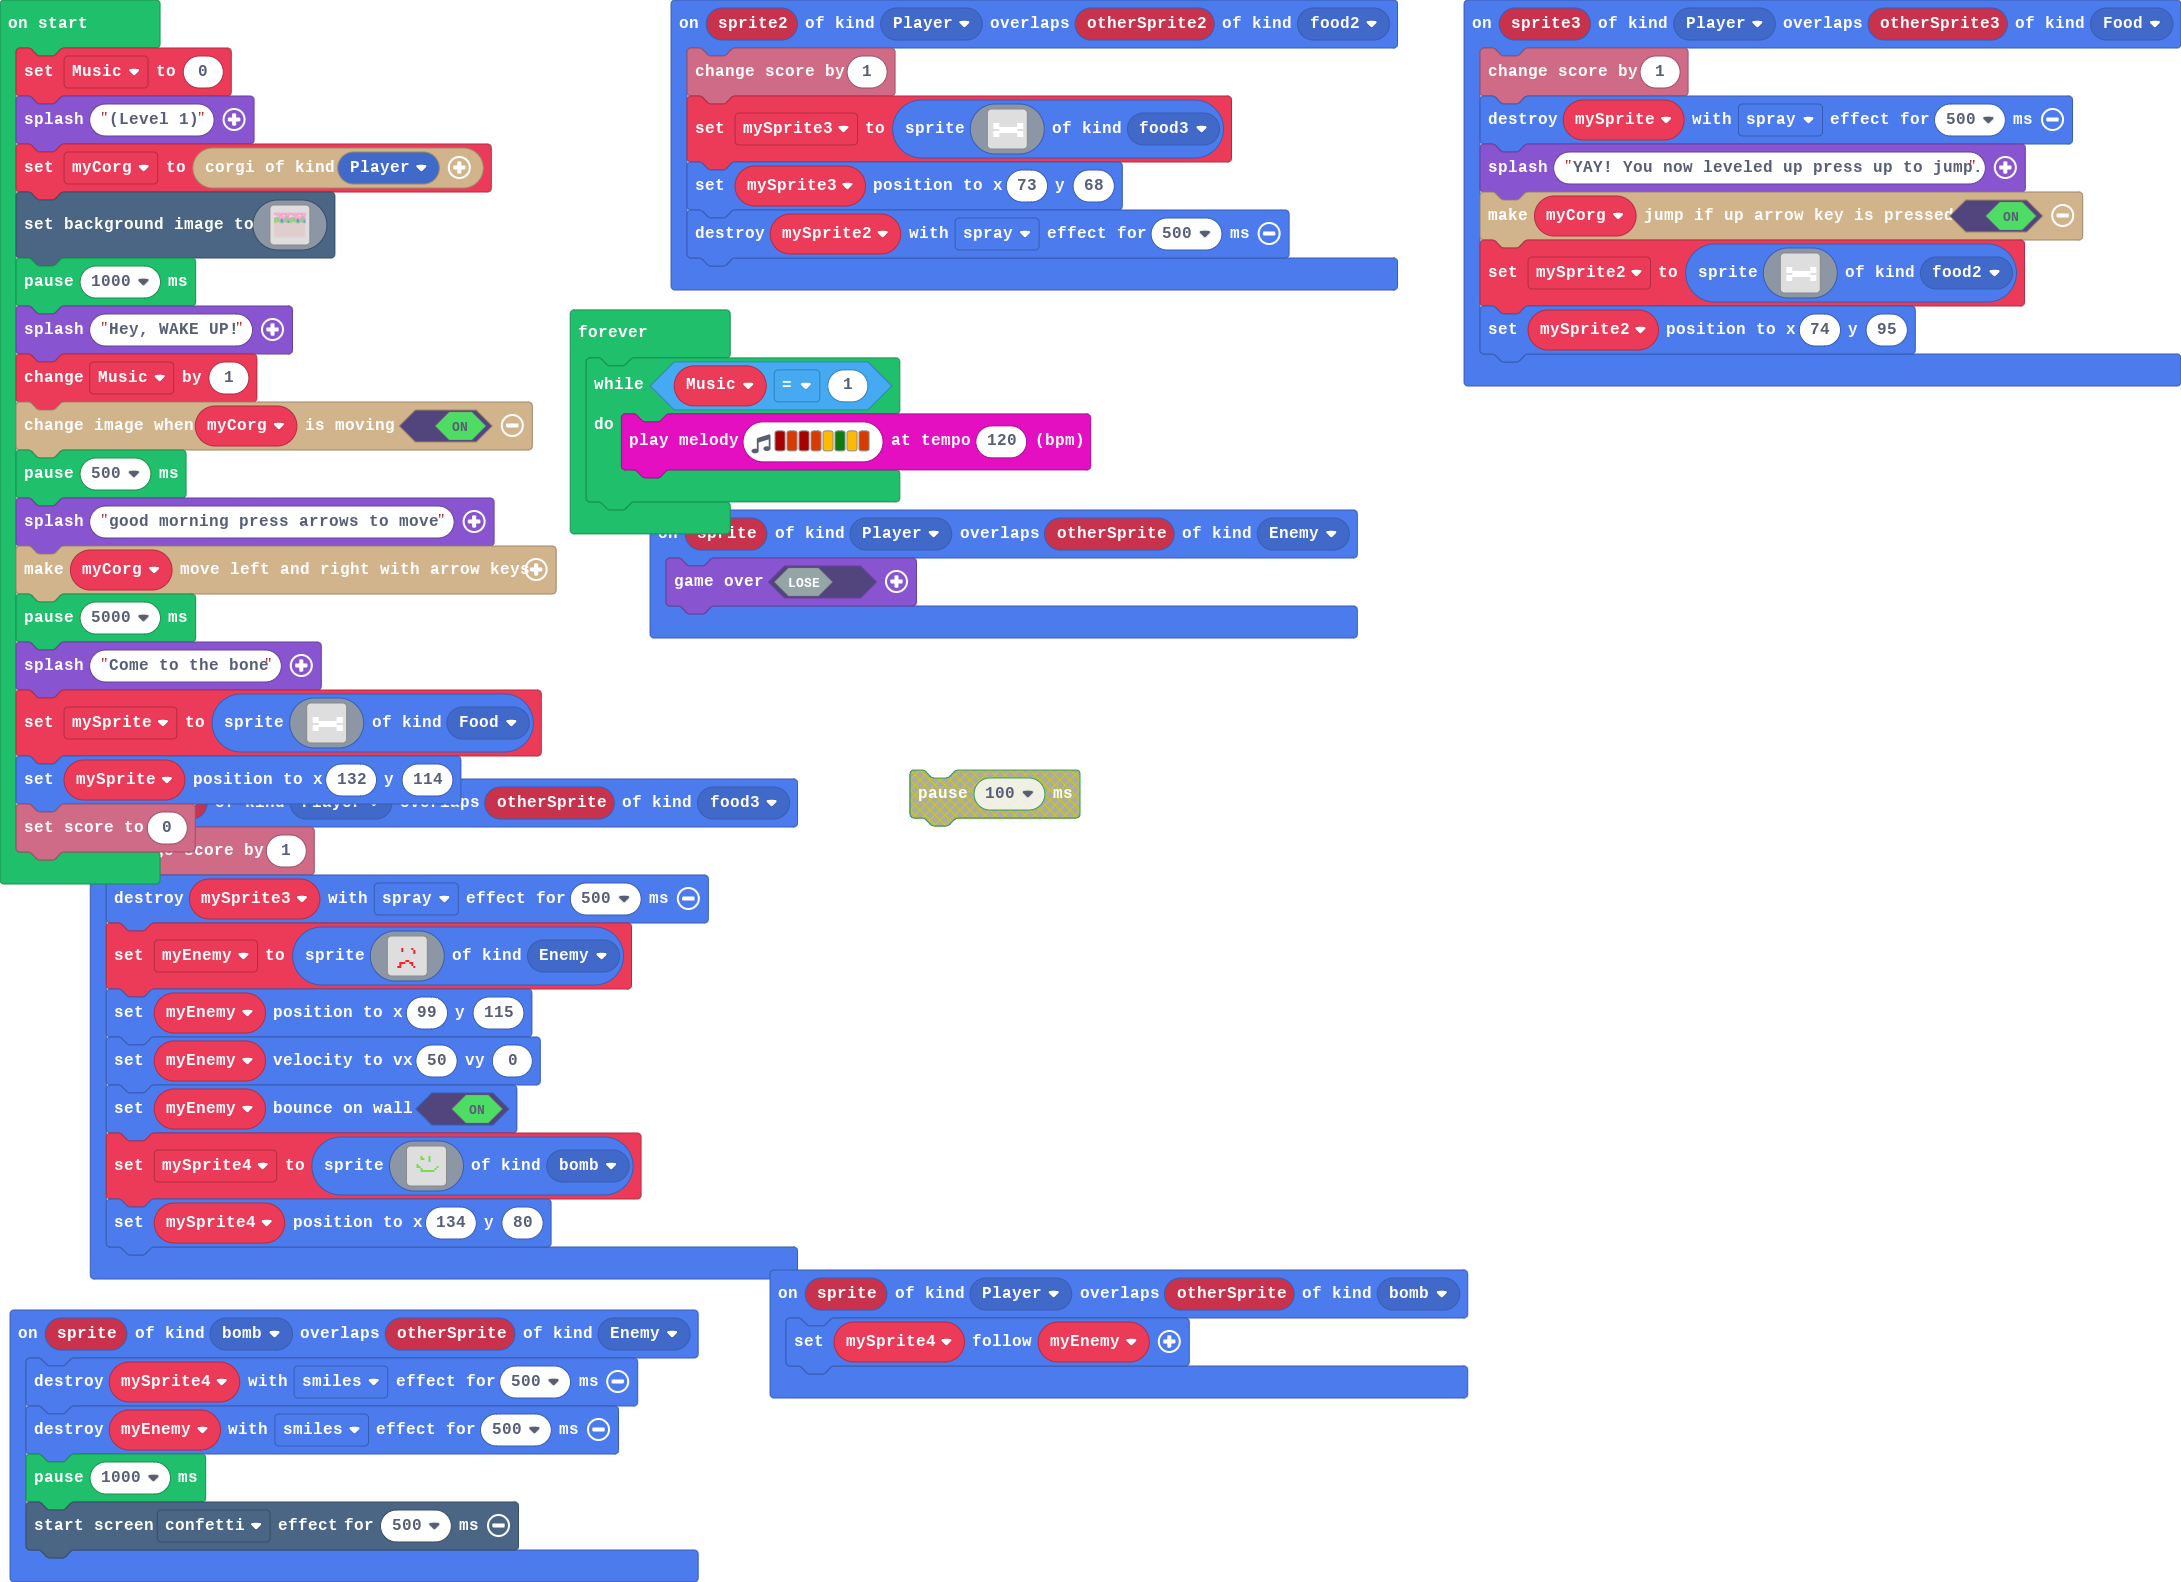
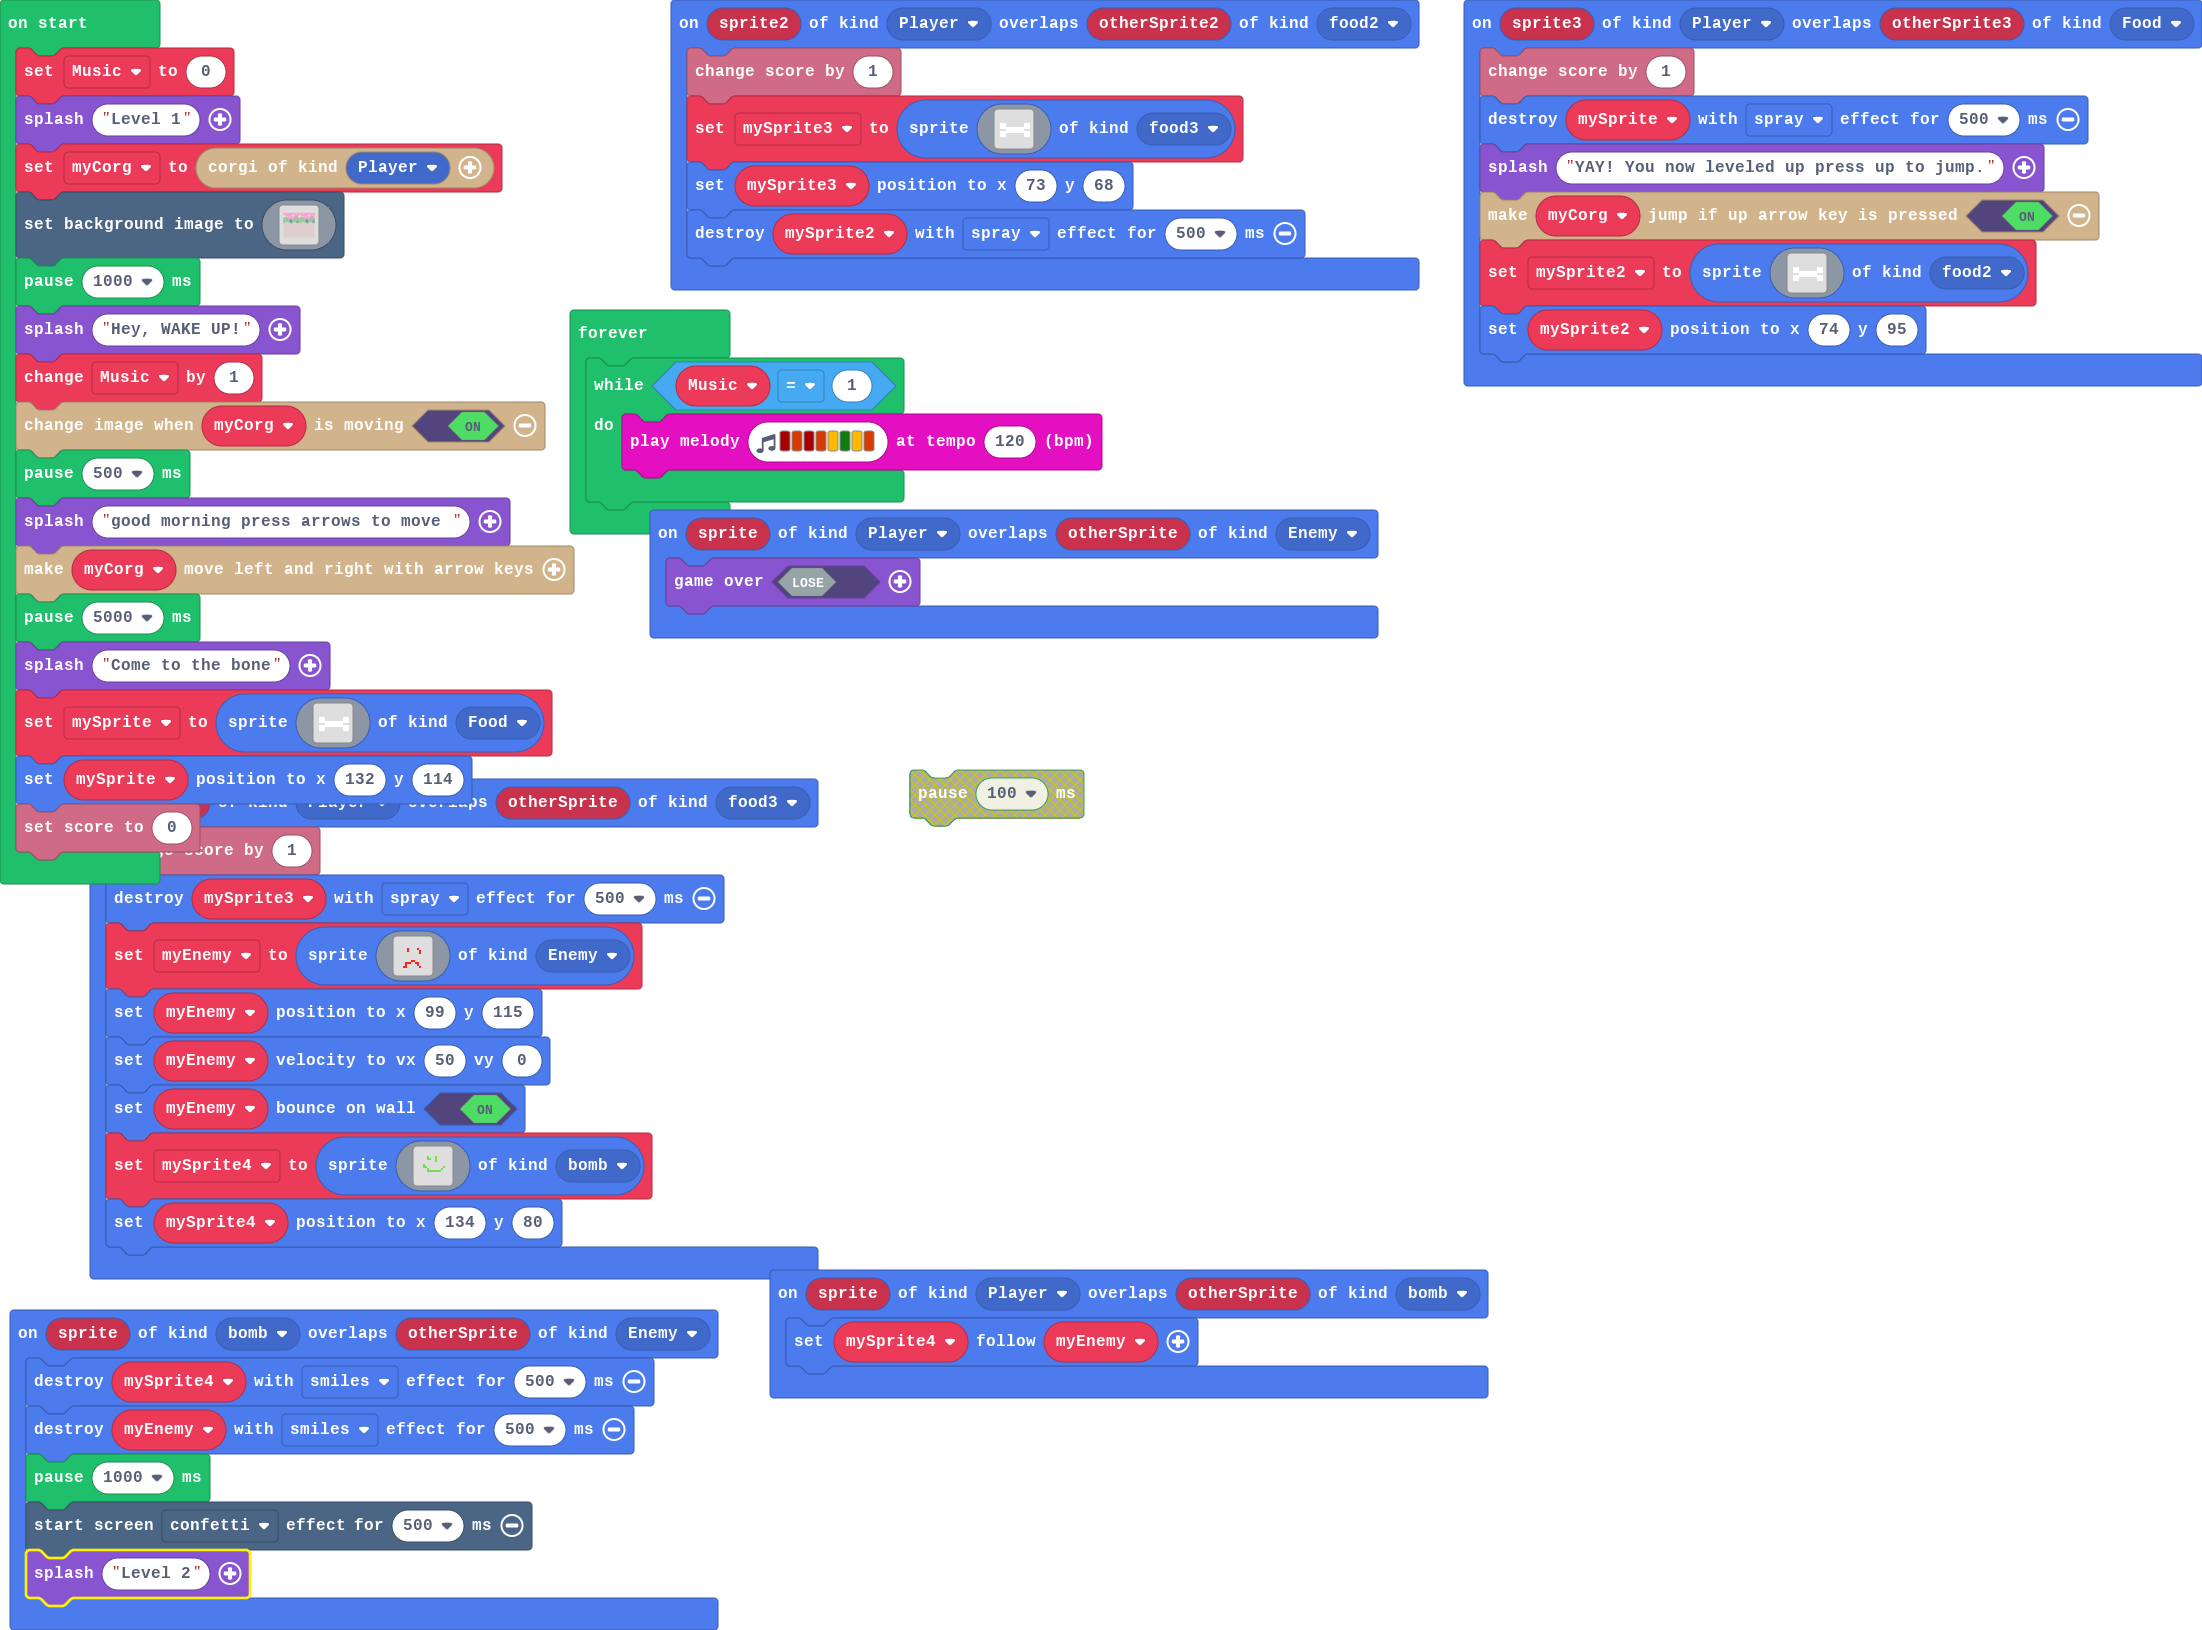
Update main.blocks, main.ts

Changed region(s): [[0.0, 0.0, 1.0, 0.9912], [0.4053, 0.4646, 0.4989, 0.5265], [0.3118, 0.9912, 0.343, 1.0]]

diff --git a/main.ts b/main.ts
@@ -55,6 +55,7 @@ sprites.onOverlap(SpriteKind.bomb, SpriteKind.Enemy, function (sprite, otherSpri
     myEnemy.destroy(effects.smiles, 500)
     pause(1000)
     effects.confetti.startScreenEffect(500)
+    game.splash("Level 2")
 })
 sprites.onOverlap(SpriteKind.Player, SpriteKind.food2, function (sprite2, otherSprite2) {
     info.changeScoreBy(1)
@@ -114,7 +115,7 @@ let mySprite3: Sprite = null
 let mySprite: Sprite = null
 let myCorg: Corgio = null
 let Music = 0
-game.splash("(Level 1)")
+game.splash("Level 1")
 myCorg = corgio.create(SpriteKind.Player)
 scene.setBackgroundImage(img`
     3333333333333333333333333333333333333333333333333333333333333333333333333333333333333333333333333333333333333333333333333333333333333333333333333333333333333333
